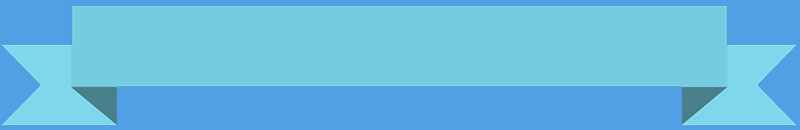
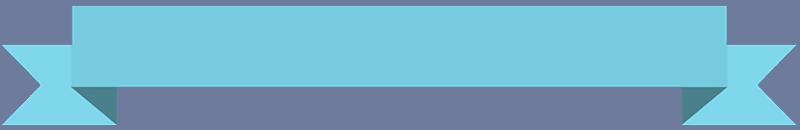
Modifications: Harmonisation de l'HTML de l'index Réparation des bugs avec le :hover Recolorisation du fond de la bannière pour s'accorder avec les nouvelle couleurs

diff --git a/style/main.css b/style/main.css
@@ -33,7 +33,7 @@ body {
     width:960px;
     height: 260px;
     background-color: #6D7C9D;
-    margin-bottom: 10px;
+    margin-bottom: 20px;
 }
 
 /*1)Banniere*/
@@ -92,9 +92,7 @@ body {
 
 /*Hover du bouton accueil*/
 .bacc:hover a{
-    visibility: hidden;
-    top: 800px;
-
+    color: transparent;
 }
 .bacc:hover {
     background-image: url("http://jorelamthor.neocities.org/TP/image/logoaccueilhover.PNG");
@@ -103,7 +101,7 @@ body {
 
 /*Hover du bouton windos*/
 .bwin:hover a{
-    visibility: hidden;
+    color: transparent;
 }
 .bwin:hover {
     background-image: url("http://jorelamthor.neocities.org/TP/image/logowindowshover.PNG");
@@ -112,7 +110,7 @@ body {
 
 /*Hover du bouton mac*/
 .bmac:hover a{
-    visibility: hidden;
+    color: transparent;
 }
 .bmac:hover{
     background-image: url("http://jorelamthor.neocities.org/TP/image/logomachover.png");
@@ -122,7 +120,7 @@ body {
 /*Hover du bouton linux*/
 
 .blin:hover a{
-    visibility: hidden;
+    color: transparent;
 }
 .blin:hover{
     background-image: url("http://jorelamthor.neocities.org/TP/image/logolinuxhover.PNG");
@@ -130,7 +128,7 @@ body {
 }
 /*Hover du bouton formulaire*/
 .bfor:hover a{
-    visibility: hidden;;
+    color: transparent;
 }
 .bfor:hover{
     background-image: url("http://jorelamthor.neocities.org/TP/image/logoformulairehover.png");
@@ -139,7 +137,7 @@ body {
 
 /*Hover du bouton contact*/
 .bcon:hover a{
-    visibility: hidden;
+    color: transparent;
 }
 .bcon:hover{
     background-image: url("http://jorelamthor.neocities.org/TP/image/logocontacthover.png");
@@ -171,6 +169,23 @@ body {
     margin: 0;
 }
 
+/*Listes des parties windows, mac et linux*/
+.windows > ul, .mac > ul, .linux > ul {
+    margin-left: 10px;
+    margin-right: 10px;
+    margin-top: 10px;
+    padding-top: 10px;
+    font-weight: bold;
+    color:#423f37
+}
+
+/*Éléments de la liste des parties windows, mac et linux*/
+.windows > ul > li, .mac > ul > li, .linux > ul > li {
+    display: list-item;
+    list-style: disc;
+    margin-left: 235px;
+}
+
 /*Texte des parties windows, mac et linux*/
 .windows > p, .mac > p, .linux > p {
     margin-bottom: 0px;
@@ -181,28 +196,9 @@ body {
 .windows > a, .mac > a, .linux > a {
     text-decoration: none;
     position: relative;
-    left: 340px;
-    bottom: 13px;
+    left: 355px;
+    bottom: 15px;
 }
-
-/*Listes des parties windows, mac et linux*/
-.windows > ul, .mac > ul, .linux > ul {
-    margin-left: 10px;
-    margin-right: 10px;
-    margin-top: 10px;
-    font-weight: bold;
-    color:#423f37
-    padding: 0;
-}
-
-/*Éléments de la liste des parties windows, mac et linux*/
-.windows > ul > li, .mac > ul > li, .linux > ul > li {
-    display: list-item;
-    list-style: disc;
-    margin-left: 223px;
-}
-
-
 /* CSS des pages windows, linux et mac DEBUT CSS par Charles-Elie */
 
 .clear {
@@ -411,6 +407,7 @@ input, select {
 .piedpage {
     background-color: rgb(64, 96, 148);
     width: 960px;
+    margin-top: 20px;
 }
 
 /*Liste du pied de page*/
@@ -418,6 +415,7 @@ ul.pdpbarre{
     display: inline-block;
     margin: 0;
     padding: 0;
+    width: 965px;
 }
 /*Éléments de la liste du pied de page*/
 .pdpbarre li{
@@ -425,7 +423,7 @@ ul.pdpbarre{
     font-family: 'Arial', Helvetica, sans-serif;
     font-weight: bold;
     text-align: center;
-    width: 227px;
+    width: 237px;
     height: 50px;
 }
 /*Survole des éléments de la liste du pied de page*/

diff --git a/index.html b/index.html
@@ -47,10 +47,10 @@
                 <li>Le gestionnaire des tâches remis à neuf</li>
                 <li>Les applications enfin en mode fenêtré</li>
             </ul>
-            <p>Annoncé durant le mois de Septembre 2014, la version finale de Windows 10 ne sera pas dévoilé avant la conférence
-                du Build 2015, soit 2 ans après le lancement de Windows 8.1 lors du même évenement. Pour ce nouvel opus du célèbre
-                système d'exploitation, le nouveau né du géeant Microsoft décide de consolider ses points forts ; Windows 10 se
-                trouve grandement optimisé pour les ordinateurs et se veut plus facile d'utilisation que jamais
+            <p> Bien qu'annoncé durant le mois de Septembre 2014, la version finale de Windows 10 ne sera pas dévoilée avant la
+             conférence du Build 2015, soit 2 ans après le lancement de Windows 8.1, lors du même évenement. Pour ce nouvel opus
+             du célèbre système d'exploitation, les enjeux sont grands car il s'agit de renouer avec la communauté ; Windows 10
+             se trouve grandement optimisé pour les ordinateurs et se veut plus facile d'utilisation que jamais.
             </p>
             <a href="windows/windowsacc.html">Cliquer ici pour lire la suite de cet article...</a>
     </div>
@@ -79,10 +79,11 @@
                 <li>Wikipédia.org choisi Ubuntu pour ses serveurs</li>
                 <li>Ubuntu Touch arrive sur vos smartphones</li>
             </ul>
-            <p>Plus de 10 ans après sa sortie, la mission d'Ubuntu est accomplie, Mark Shuttleworth aura reussi a s'imposer
-                dans le monde des système d'exploitation. Il aura fallu 3 ans pour que Ubuntu se retrouve pour la première fois
-                comme OS par défaut sur une ordinateur de Dell. À 1 mois de la sortie de la version 15.04 "Vivid Vervet", quels défis
-                attendent encore la plus popualire des distributions Linux ?</p>
+            <p>10 ans après sa sortie, Ubuntu peut enfin considérer sa mission accomplie. Mark Shuttleworth, le millionaire
+             l'origine de la conception de cet OS, aura reussi a imposer sa vision dans le monde des système d'exploitation.
+             Il aura fallu 3 ans pour que Ubuntu se retrouve pour la première fois comme OS par défaut sur une ordinateur de
+             Dell. À 1 mois de la sortie de la version 15.04 "Vivid Vervet", quels défis attendent encore la plus populaire
+             des distributions Linux ?</p>
             <a href="linux/linuxacc.html">Cliquer ici pour lire la suite de cet article...</a>
     </div>
 
